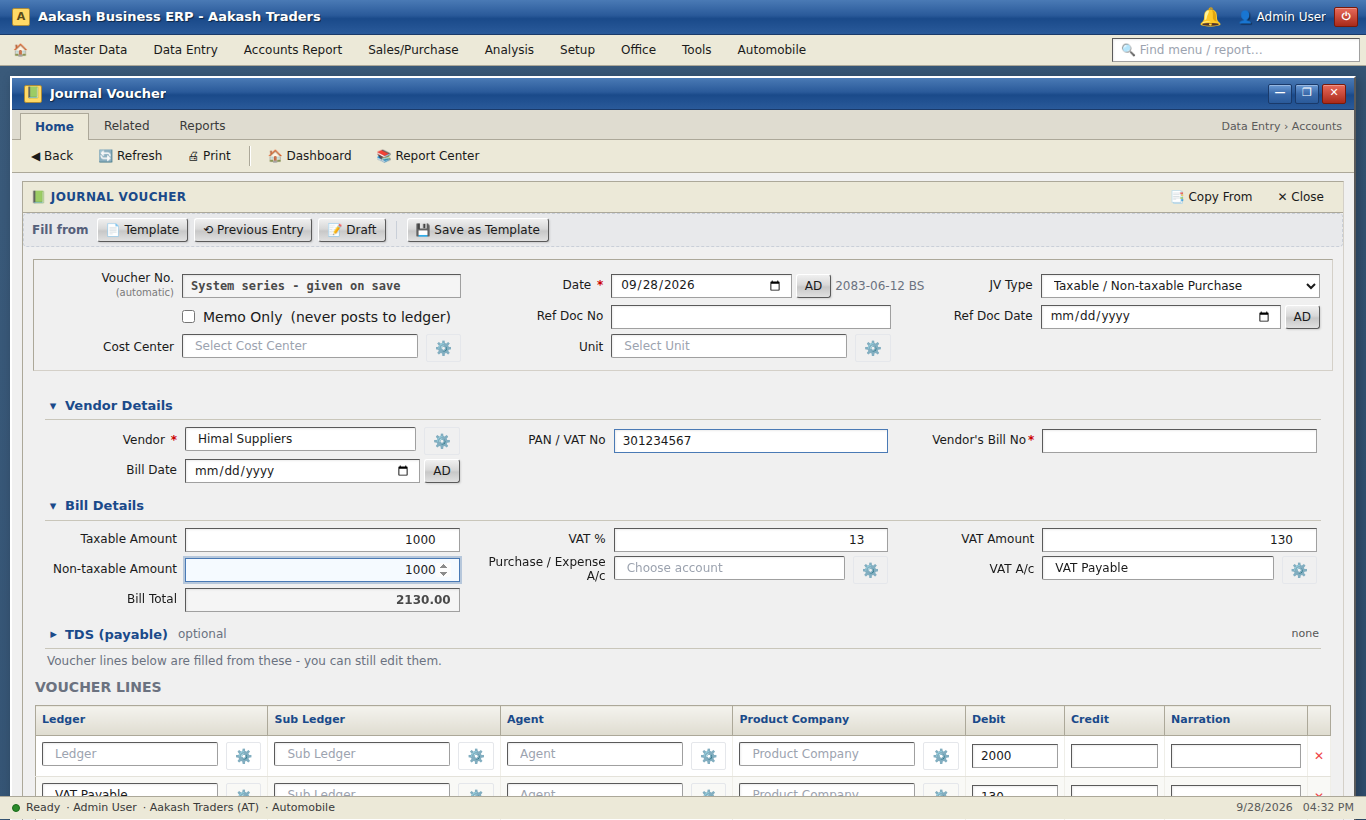
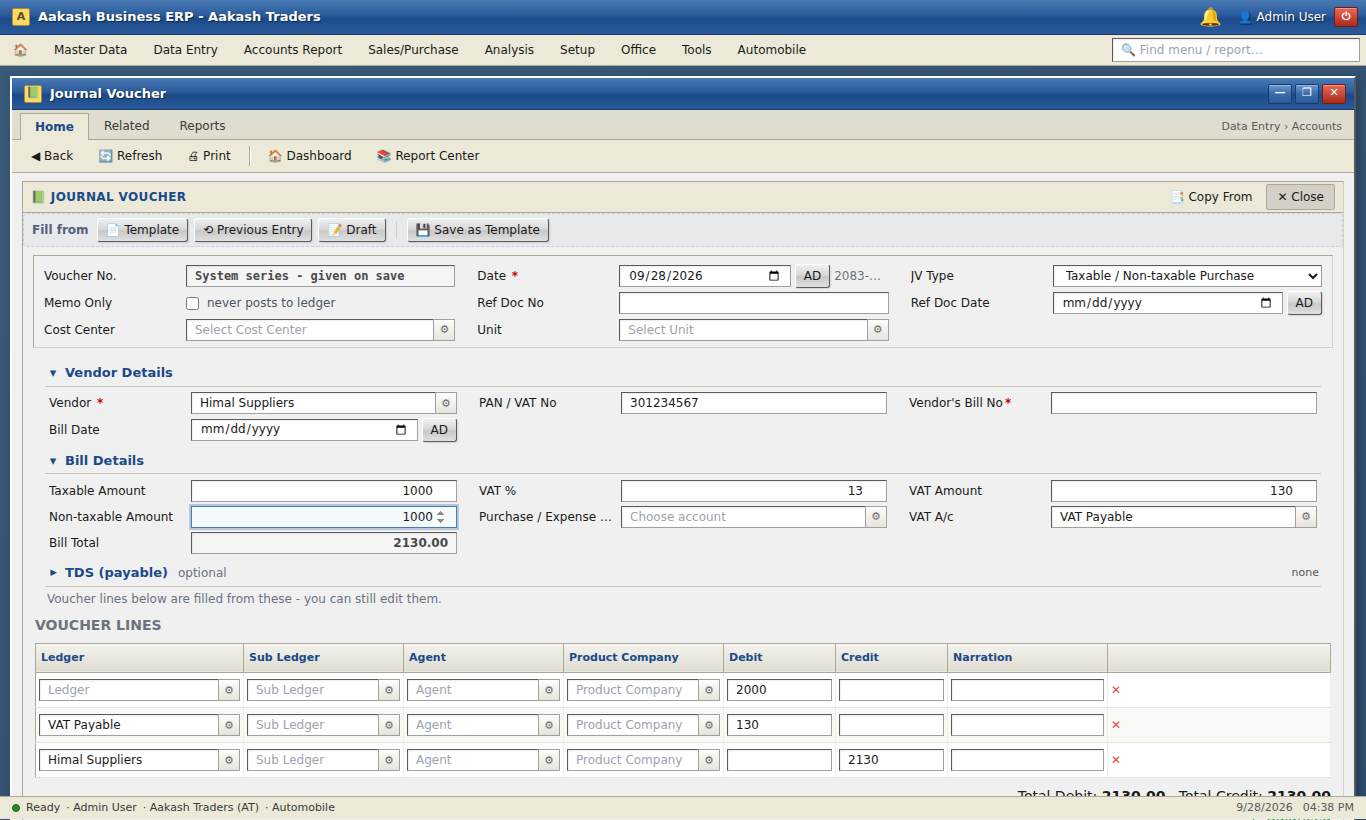
Compact NAV-style form layout on every screen
- Field captions: one fixed left-aligned column (136px), single line
  with ellipsis, so every form's labels line up; caption side notes
  left out of the card layout
- 22px fields, smaller row / column gaps and card padding; tighter grid
  rows; lookup fields are one box with a small attached button
- Date field hint no longer overlaps the next caption; JV Memo field
  in the same caption / value layout

Claude-Session: https://claude.ai/code/session_01JSLvMSYStLj7q2tQjBdXtX

diff --git a/client/src/index.css b/client/src/index.css
@@ -156,22 +156,31 @@
      24px inputs - for erp-field screens and plain "label over input" screens alike */
   @media (min-width: 768px) {
     .nav-page .erp-field, .nav-page div:has(> label:first-child + :is(input:not([type=checkbox]):not([type=radio]), select, textarea, div.flex, div.relative):last-child) {
-      display: grid; grid-template-columns: clamp(64px, 38%, 128px) minmax(0, 1fr); column-gap: 8px; row-gap: 2px; align-items: center;
+      display: grid; grid-template-columns: var(--nav-caption, 136px) minmax(0, 1fr); column-gap: 6px; row-gap: 0; align-items: center; min-height: 23px;
     }
     .nav-page .erp-field > .erp-label, .nav-page div:has(> label:first-child + :is(input:not([type=checkbox]):not([type=radio]), select, textarea, div.flex, div.relative):last-child) > label:first-child {
-      grid-column: 1; margin: 0; text-align: right; font-size: 12px; font-weight: 400; color: #1a1a1a; line-height: 1.15; overflow-wrap: anywhere;
+      grid-column: 1; margin: 0; text-align: left; font-size: 12px; font-weight: 400; color: #1a1a1a; line-height: 22px;
+      white-space: nowrap; overflow: hidden; text-overflow: ellipsis;
     }
     .nav-page .erp-field > :not(.erp-label) { grid-column: 2; min-width: 0; }
+    /* one-line captions: side notes in a caption are left out of the card layout */
+    .nav-page .erp-field > .erp-label .hint { display: none; }
+    .nav-page .erp-field input[type=date] { min-width: 112px !important; flex: 1 1 auto; }
     .nav-page .erp-field :is(input, select) { min-width: 0; }
     .nav-page .erp-field .flex > * { min-width: 0; }
     .nav-page .erp-field button { flex-shrink: 0; }
     .nav-page .erp-field:has(> textarea), .nav-page div:has(> label:first-child + textarea:last-child) { align-items: start; }
     .nav-page .erp-field:has(> textarea) > .erp-label, .nav-page div:has(> label:first-child + textarea:last-child) > label:first-child { padding-top: 4px; }
     .nav-page :is(input:not([type=checkbox]):not([type=radio]):not([type=range]):not([type=color]):not([type=file]), select:not([multiple])) {
-      height: 24px; padding-top: 1px; padding-bottom: 1px; font-size: 12px;
+      height: 22px; padding-top: 0; padding-bottom: 0; font-size: 12px;
     }
     .nav-page :is(button, a):is([class*="py-2"], [class*="py-3"]):not(.nav-tool-btn):not(.nav-ribbon-tab) { padding-top: 3px; padding-bottom: 3px; }
-    .nav-page .erp-topbar { gap: 5px 14px; padding: 12px 12px 8px; }
+    .nav-page .erp-topbar { gap: 3px 22px; padding: 8px 10px 6px; margin: 8px 10px 4px; }
+    .nav-page .erp-tab-content { padding-top: 6px; }
+    /* grids: one line of 22px fields per row */
+    .nav-page .erp-grid-table tbody td { padding: 1px 3px; }
+    .nav-page .erp-grid-table thead th { padding: 3px 5px; }
+    .nav-page .sps-gear { height: 22px; width: 22px; }
   }
   /* caption-left fields need room: wide field rows drop to 2 (laptop) or 3 columns */
   @media (min-width: 768px) and (max-width: 1279px) {
@@ -274,11 +283,16 @@
   /* NAV-style FastTab: a collapsible section of a card - bold caption with an arrow, a thin
      rule under it, its summary on the right while folded, fields in even caption-left columns */
   .nav-fasttab { margin: 2px 10px 0; }
-  .nav-fasttab-head { display: flex; align-items: center; gap: 6px; width: 100%; padding: 5px 2px 4px; background: none; border: 0;
+  .sps-row { display: flex; align-items: stretch; }
+  .sps-row > .sps-input { flex: 1; min-width: 0; }
+  .sps-gear { flex: 0 0 auto; width: 26px; height: 28px; padding: 0; margin-left: -1px; font-size: 11px; line-height: 1; color: #6b6b6b;
+    background: linear-gradient(180deg, #fdfdfb 0%, #e6e4dc 100%); border: 1px solid #a0a0a0; cursor: pointer; }
+  .sps-gear:hover { background: #dde8f6; border-color: #4a7ab5; }
+  .nav-fasttab-head { display: flex; align-items: center; gap: 6px; width: 100%; padding: 3px 2px; background: none; border: 0;
     border-bottom: 1px solid #c9c6ba; font-size: 13px; font-weight: 700; color: #1a4a8a; text-align: left; cursor: pointer; }
   .nav-fasttab-head:hover { color: #0f3470; background: #f6f5ef; }
   .nav-fasttab-sum { margin-left: auto; font-size: 11px; font-weight: 400; color: #555; white-space: nowrap; overflow: hidden; text-overflow: ellipsis; max-width: 60%; }
-  .nav-fasttab-body { display: grid; grid-template-columns: repeat(3, minmax(0, 1fr)); gap: 4px 18px; padding: 7px 4px 6px; }
+  .nav-fasttab-body { display: grid; grid-template-columns: repeat(3, minmax(0, 1fr)); gap: 3px 22px; padding: 5px 4px 4px; }
   @media (max-width: 1279px) { .nav-fasttab-body { grid-template-columns: repeat(2, minmax(0, 1fr)); } }
   @media (max-width: 767px) { .nav-fasttab-body { grid-template-columns: minmax(0, 1fr); } }
   .erp-topbar { display: grid; gap: 7px 12px; background: #f0f0f0; border: 1px solid #aca899; border-right-color: #d4d0c8; border-bottom-color: #d4d0c8; margin: 12px 10px 6px; padding: 14px 12px 10px; position: relative; }

diff --git a/client/src/components/entry/DualDateInput.jsx b/client/src/components/entry/DualDateInput.jsx
@@ -79,10 +79,10 @@ export default function DualDateInput({ value, onChange, disabled, required, def
 
     if (mode === 'ad') {
         return (
-            <div className={`flex items-center gap-1 ${className}`} title={title}>
+            <div className={`flex items-center gap-1 min-w-0 ${className}`} title={title || (canBs && value ? `${bsText(value)} BS` : undefined)}>
                 <input type="date" className="erp-input" style={{ minWidth: 130 }} value={value || ''} disabled={disabled} required={required} onChange={e => onChange(e.target.value)} />
                 {toggle}
-                {canBs && value && <span className="text-xs text-gray-500 whitespace-nowrap">{bsText(value)} BS</span>}
+                {canBs && value && <span className="text-xs text-gray-500 whitespace-nowrap overflow-hidden text-ellipsis min-w-0">{bsText(value)} BS</span>}
             </div>
         );
     }
@@ -91,12 +91,12 @@ export default function DualDateInput({ value, onChange, disabled, required, def
     const lead = first ? new Date(`${first}T00:00:00`).getDay() : 0;
     const count = monthDays(view.year, view.month);
     return (
-        <div ref={wrap} className={`relative flex items-center gap-1 ${className}`} title={title}>
+        <div ref={wrap} className={`relative flex items-center gap-1 min-w-0 ${className}`} title={title || (value ? `${value} AD` : undefined)}>
             <input className={`erp-input ${bad ? 'border-red-500' : ''}`} style={{ minWidth: 110 }} value={text} disabled={disabled} required={required} placeholder="YYYY-MM-DD (BS)"
                 onChange={e => setText(e.target.value)} onBlur={commit} onKeyDown={e => { if (e.key === 'Enter') commit(); }} />
             <button type="button" tabIndex={-1} className="nav-btn small" disabled={disabled} onClick={openCal} title="Pick the Nepali date">📅</button>
             {toggle}
-            <span className={`text-xs whitespace-nowrap ${bad ? 'text-red-600' : 'text-gray-500'}`}>{bad ? 'Not a BS date' : value ? `${value} AD` : ''}</span>
+            <span className={`text-xs whitespace-nowrap overflow-hidden text-ellipsis min-w-0 ${bad ? 'text-red-600' : 'text-gray-500'}`}>{bad ? 'Not a BS date' : value ? `${value} AD` : ''}</span>
             {open && (
                 <div className="absolute z-50 top-full left-0 mt-1 bg-white border rounded shadow-lg p-2" style={{ width: 252 }}>
                     <div className="flex items-center justify-between mb-1 text-sm">

diff --git a/client/src/components/SearchablePopupSelect.jsx b/client/src/components/SearchablePopupSelect.jsx
@@ -241,13 +241,13 @@ export default function SearchablePopupSelect({
 
     return (
         <div className="relative" ref={containerRef}>
-            <div className="flex gap-2">
+            <div className="sps-row">
                 <input
                     ref={inputRef}
                     type="text"
                     required={required}
                     disabled={disabled}
-                    className="flex-1 border rounded-lg px-3 py-2"
+                    className="erp-input sps-input"
                     placeholder={placeholder}
                     value={open ? search : (selectedItem ? getLabel(selectedItem) : '')}
                     onFocus={openPopup}
@@ -260,10 +260,10 @@ export default function SearchablePopupSelect({
                     type="button"
                     tabIndex={-1}
                     onClick={() => setColPanelOpen(o => !o)}
-                    className="px-2 py-2 border rounded-lg text-sm text-gray-500 hover:bg-gray-50"
+                    className="sps-gear"
                     title="Column settings"
                 >
-                    ⚙
+                    ⚙
                 </button>
             </div>
 

diff --git a/client/src/pages/JournalVoucher.jsx b/client/src/pages/JournalVoucher.jsx
@@ -406,10 +406,11 @@ export default function JournalVoucher() {
                                 {TYPE_CHOICES.map(t => <option key={t.value} value={t.value}>{t.label}</option>)}
                             </select>
                         </div>
-                        <div className="erp-field justify-end">
-                            <label className="flex items-center gap-2 text-sm">
+                        <div className="erp-field">
+                            <span className="erp-label">Memo Only</span>
+                            <label className="flex items-center gap-2 text-xs text-gray-600" title="A memo voucher is kept for record and never posts to the ledger">
                                 <input type="checkbox" checked={form.is_memo} onChange={e => setForm({ ...form, is_memo: e.target.checked })} />
-                                Memo Only <span className="hint">(never posts to ledger)</span>
+                                never posts to ledger
                             </label>
                         </div>
                         <div className={efc.isVisible('ref_doc_no') ? 'erp-field' : 'erp-field hidden'}>
